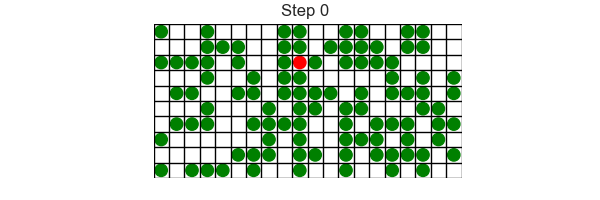
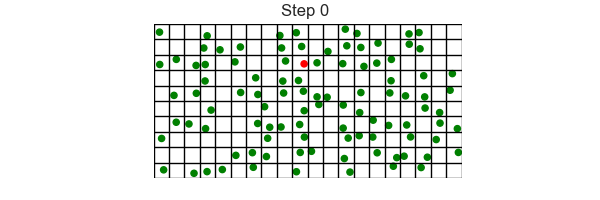
A SIR

Changed region(s): [[0.24, 0.12, 0.78, 0.9], [0.24, 0.51, 0.36, 0.75], [0.24, 0.12, 0.3, 0.21]]

diff --git a/topics/04-Agent_Based_Modelling/02-SIR_Models/02-Agent_Based_Model.html b/topics/04-Agent_Based_Modelling/02-SIR_Models/02-Agent_Based_Model.html
@@ -166,14 +166,22 @@
 <li>has function, <code>get_neighborhood</code> to return a list of all neighboring cells.</li>
 <li>has function, <code>step</code> to compute its behaviour based on its <code>state</code> and the <code>state</code> of its neighbours.</li>
 </ul>
-<div class="highlight"><table class="highlighttable"><tr><td class="linenos"><div class="linenodiv"><pre><span class="normal">1</span>
-<span class="normal">2</span>
-<span class="normal">3</span>
-<span class="normal">4</span>
-<span class="normal">5</span>
-<span class="normal">6</span>
-<span class="normal">7</span>
-<span class="normal">8</span></pre></div></td><td class="code"><div><pre><span></span><code><span class="k">class</span> <span class="nc">Agent</span><span class="p">(</span><span class="n">mesa</span><span class="o">.</span><span class="n">Agent</span><span class="p">):</span>
+<div class="highlight"><table class="highlighttable"><tr><td class="linenos"><div class="linenodiv"><pre><span class="normal"> 1</span>
+<span class="normal"> 2</span>
+<span class="normal"> 3</span>
+<span class="normal"> 4</span>
+<span class="normal"> 5</span>
+<span class="normal"> 6</span>
+<span class="normal"> 7</span>
+<span class="normal"> 8</span>
+<span class="normal"> 9</span>
+<span class="normal">10</span>
+<span class="normal">11</span>
+<span class="normal">12</span></pre></div></td><td class="code"><div><pre><span></span><code><span class="k">class</span> <span class="nc">Agent</span><span class="p">(</span><span class="n">mesa</span><span class="o">.</span><span class="n">Agent</span><span class="p">):</span>
+
+    <span class="n">SUSCEPTIBLE</span> <span class="o">=</span> <span class="mi">0</span>
+    <span class="n">INFECTED</span> <span class="o">=</span> <span class="mi">1</span>
+    <span class="n">RECOVERED</span> <span class="o">=</span> <span class="mi">2</span>
 
     <span class="k">def</span> <span class="fm">__init__</span><span class="p">(</span><span class="bp">self</span><span class="p">,</span> <span class="n">model</span><span class="p">):</span>
         <span class="nb">super</span><span class="p">()</span><span class="o">.</span><span class="fm">__init__</span><span class="p">(</span><span class="n">model</span><span class="p">)</span>
@@ -225,7 +233,8 @@ and the agents in the model.</p>
 <h3><code>Agent</code> class</h3>
 <p>The <code>get_neighborhood</code> method:</p>
 <ul>
-<li>This is similar the <code>get_neighbors</code> method defined in the Game of Life and other models, but calls the method <code>grid.get_neighborhood</code> in place of <code>grid.get_neighbors</code>.</li>
+<li>This is similar the <code>get_neighbors</code> method defined in the Game of Life and other models, but calls the method <code>grid.get_neighborhood</code> in place of <code>grid.get_neighbors</code>.
+What is the difference? Well <code>get_neighbors</code> returns a list of agents in the neighbourhood, while <code>get_neighborhood</code> returns a list of grid locations in the neighbourhood. We need to locations to pick one to move to when updating.</li>
 </ul>
 <p>The <code>step</code> method has the following rules:</p>
 <ul>
@@ -234,12 +243,12 @@ and the agents in the model.</p>
 <ul>
 <li>use <code>model.pr_move</code> to determine if the agent should move.</li>
 <li>get the list of neighbouring cells using <code>self.get_neighborhood</code>.</li>
-<li>pick a random destination cell from the list of neighbouring cells.</li>
+<li>pick a random destination cell from the list of neighbouring cells, using <code>np.choice</code>.</li>
 <li>move the agent to the destination cell.</li>
 </ul>
 </li>
 <li>
-<p>If an agent is <code>SUSCEPTIBLE</code>, then it can become infected by any (if they exist) agents in the same location that are <code>INFECTED</code> with probability <code>pr_infect</code>. Use a formula similar to that used in the Fire model to switch from <code>BURNABLE</code> to <code>BURNING</code></p>
+<p>If an agent is <code>INFECTED</code>, then it can infect each <code>SUSCEPTIBLE</code> agents in the same location (if they exist) with probability <code>pr_infect</code>.</p>
 </li>
 <li>
 <p>If an agent is <code>INFECTED</code>, then it can recover with probability <code>pr_recover</code>. </p>
@@ -248,18 +257,22 @@ and the agents in the model.</p>
 <p>We could implement these rules fully, but instead  we will implement them step by step and examine progress.</p>
 <h3>The <code>Model</code> class</h3>
 <p>This is implemented along similar lines to the Fire Model or the Schelling Model:</p>
-<p>In <code>Model.__init__</code>:
-    * Replace <code>SingleGrid</code> with <code>MutliGrid</code>
-    * Add agents (default state is <code>SUSCEPTIBLE</code>)
-    * Pick one random agent to be <code>INFECTED</code>.</p>
-<p>In <code>Model.step</code>:
-    * Same as in the Schelling Model.</p>
+<p>In <code>Model.__init__</code>:</p>
+<ul>
+<li>Replace <code>SingleGrid</code> with <code>MutliGrid</code></li>
+<li>Add agents (default state is <code>SUSCEPTIBLE</code>)</li>
+<li>Pick one random agent to be <code>INFECTED</code>.</li>
+</ul>
+<p>In <code>Model.step</code>:</p>
+<ul>
+<li>Same as in the Schelling Model (where all agents are updated in random order).</li>
+</ul>
 <h3>Visualisation</h3>
 <p>To start, the function <code>draw_model</code> is near identical to the Schelling Model function. use
 colours and labels:</p>
 <div class="highlight"><table class="highlighttable"><tr><td class="linenos"><div class="linenodiv"><pre><span class="normal">1</span>
 <span class="normal">2</span></pre></div></td><td class="code"><div><pre><span></span><code>    <span class="n">colors</span> <span class="o">=</span> <span class="p">[</span><span class="s1">&#39;green&#39;</span><span class="p">,</span> <span class="s1">&#39;red&#39;</span><span class="p">,</span> <span class="s1">&#39;yellow&#39;</span><span class="p">]</span>
-    <span class="n">labels</span> <span class="o">=</span> <span class="p">[</span><span class="s1">&#39;Susceptible&#39;</span><span class="p">,</span> <span class="s1">&#39;Infected&#39;</span><span class="p">,</span> <span class="s1">&#39;Recovered&#39;</span><span class="p">,</span> <span class="p">]</span>
+    <span class="n">labels</span> <span class="o">=</span> <span class="p">[</span><span class="s1">&#39;Susceptible&#39;</span><span class="p">,</span> <span class="s1">&#39;Infected&#39;</span><span class="p">,</span> <span class="s1">&#39;Recovered&#39;</span><span class="p">]</span>
 </code></pre></div></td></tr></table></div>
 
 <p>Then creating a model and displaying it using</p>
@@ -271,12 +284,12 @@ colours and labels:</p>
 </code></pre></div></td></tr></table></div>
 
 <p>should result in the following</p>
-<p><img alt="" src="files/model_ver_1.png" /></p>
-<p>This is OK, but what happens when multiple agents are in the same location? How can we see multiple agents since we will only see the last one drawn.</p>
+<p><img alt="" src="files/model_ver_0.png" /></p>
+<p>This is OK, but what happens when multiple agents are in the same grid location? How can we see multiple agents since we will only see the last one drawn.</p>
 <p>There are a number of fixes for this. The easiest of these is to draw smaller agents and give each agent a random offset (from the centre). This works, but we want to be careful of two things:</p>
 <ul>
 <li>We do not want any randomness used in the visualisation to affect the randomness in the simulation. You should think about why this is not desirable.</li>
-<li>We want the random offset for the agents to be constant for the duration of the simulation - otherwise the agents will be jumping around even when that are not moving grid locations.</li>
+<li>We want the random offset for the agents to be constant for the duration of the simulation - otherwise the agents will be jumping around within a grid location even when that are not moving grid locations.</li>
 </ul>
 <p>There is a solution to both of these issues:</p>
 <ul>
@@ -302,8 +315,8 @@ colours and labels:</p>
 </code></pre></div></td></tr></table></div>
 
 <p>This results in the following</p>
-<p><img alt="" src="files/model_ver_2.png" /></p>
-<h3>Implementing <code>Agent</code> rules in separate versions</h3>
+<p><img alt="" src="files/model_ver_1.png" /></p>
+<h3>Implementing <code>Agent</code> update rules in separate versions</h3>
 		
 		<ul class="pager">
 			

diff --git a/topics/04-Agent_Based_Modelling/02-SIR_Models/01-Continuous_Model.html b/topics/04-Agent_Based_Modelling/02-SIR_Models/01-Continuous_Model.html
@@ -143,7 +143,7 @@
 		</ul>
 		
 		<h1>Continuous Models of SIR Epidemic Models</h1>
-<p>Our interest is agent based modelling of SIR models. However, it is useful to understand the continuous models of SIR models so we can compare it with the agent based model.</p>
+<p>Our interest is agent based modelling of SIR type models. However, it is useful to understand the continuous version of SIR type models so we can compare it with the agent based models.</p>
 <h2>Theory</h2>
 <p>The SIR model is a simple model of the spread of a disease in a population.</p>
 <p>The population of \(N\) individuals is divided into three compartments:</p>
@@ -152,6 +152,8 @@
 <li>Infected, \(I\), individuals infected with the disease;</li>
 <li>Recovered, \(R\), individuals recovered from the disease (and now have acquired immunity to it).</li>
 </ul>
+<p>If we treat \(S\), \(I\), and \(R\) as continuous variables (they are number of people!)
+and make simplifying assumptions about individuals' behaviour we can derive the following system of differential equations:</p>
 <p>$$
     \begin{align}
         \frac{dS}{dt} &amp;= - \beta S I / N \\
@@ -217,8 +219,8 @@ Individuals develop immunity to the disease, at a \(\gamma\) cure rate, so they 
 you pass a function defining the ode,
 the span of the independent variable,
 initial conditions,
-then optional arguments are the list of parameter values,
-the points at which to calculate the solution.</p>
+then the more important optional arguments are the list of parameter values, <code>args</code>, and
+the points at which to calculate the solution, <code>t_eval</code>.</p>
 <p>Function <code>solve_ivp</code> returns a lot of data in <code>sol</code>.  We just want the independent value, <code>t</code>, and the dependent variable <code>S</code>,<code>I</code>, <code>R</code> stored in 2D array <code>y</code>.</p>
 <div class="highlight"><table class="highlighttable"><tr><td class="linenos"><div class="linenodiv"><pre><span class="normal">1</span>
 <span class="normal">2</span>
